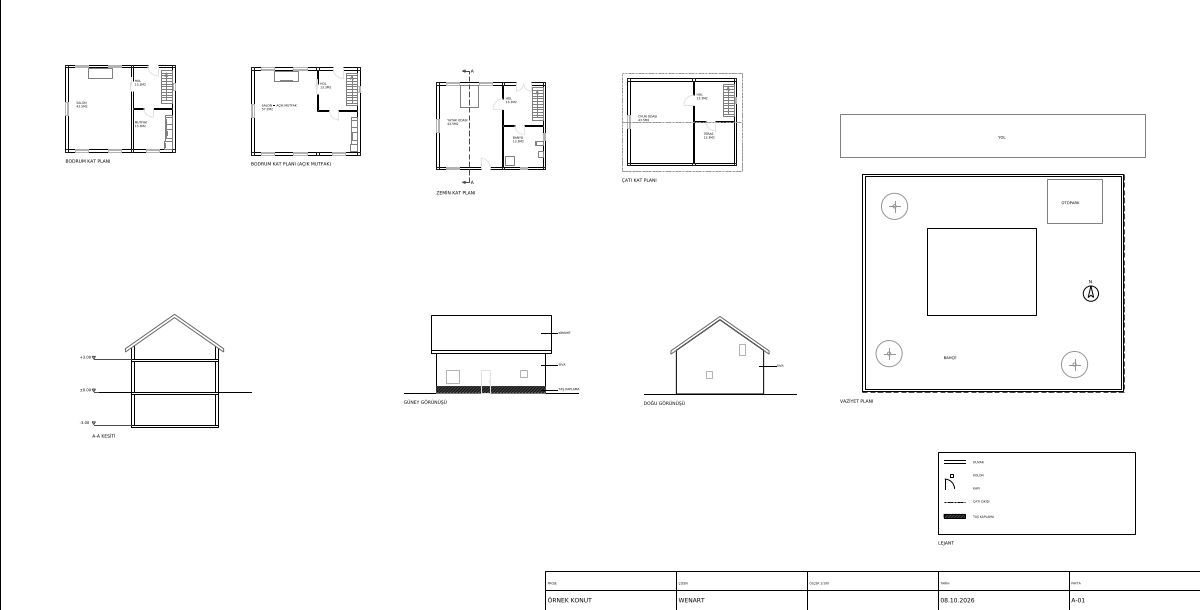
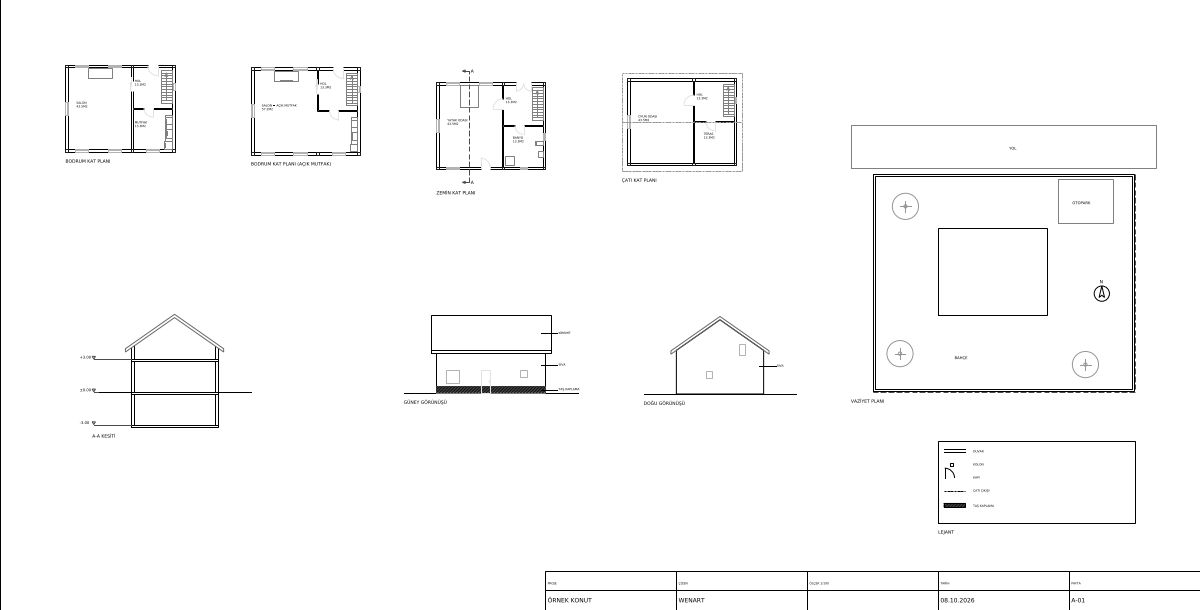
M10 track A2: synthetic-07 clusters the same for every split gap from 0.5 to 3 percent
The legend moves up and the site plan right so that every gap between two drawings is larger than 3 % of the frame's
diagonal (370 cm) and the road polygon sits within 0.5 % (62 cm) of the plot: the split gives the same ten regions and
the one stray over the whole range the spec tested (docs/milestone10.md §3.1.1). The clustering test runs at 0.5, 1, 1.5,
2 and 3 %.

Claude-Session: https://claude.ai/code/session_01MrQX1MLQ2A5Ln567i4jy7b

diff --git a/tests/test_synthetic.py b/tests/test_synthetic.py
@@ -1079,15 +1079,23 @@ def test_synthetic_07_sheet_is_one_cad_drawing_in_centimetres(sheet):
     assert len(stray) == 1 and stray[0].dxf.start.x < -50000
 
 
-def test_synthetic_07_regions_equal_an_independent_clustering(sheet):
+@pytest.fixture(scope="module")
+def sheet_boxes(sheet):
+    """Boxes of the non-text entities of the sheet, the frame left out (what the spec's split clusters)."""
+    return [_box_of(e) for e in sheet["msp"] if e.dxftype() not in ("TEXT", "MTEXT") and e.dxf.layer != "A_Cerceve"]
+
+
+@pytest.mark.parametrize("fraction", [0.005, 0.01, 0.015, 0.02, 0.03])
+def test_synthetic_07_regions_equal_an_independent_clustering(sheet, sheet_boxes, fraction):
     """The spec's split (docs/milestone10.md §3.1.1): boxes of the non-text entities, the frame left out, clustered with
-    a gap of 1.5 % of the frame's diagonal, give exactly the truth's regions (and one stray)."""
+    a gap of 1.5 % of the frame's diagonal, give exactly the truth's regions (and one stray) - and so does every gap of the
+    range the spec tested, 0.5 to 3 %."""
     document = sheet["sheets"]["documents"][0]["sheets"][0]
     frame = document["frames"][0]["box"]
-    gap = 0.015 * math.hypot(frame[2] - frame[0], frame[3] - frame[1])
-    assert gap == pytest.approx(document["gap_units"], abs=1e-3)
-    items = [(e, _box_of(e)) for e in sheet["msp"] if e.dxftype() not in ("TEXT", "MTEXT") and e.dxf.layer != "A_Cerceve"]
-    parent = list(range(len(items)))
+    gap = fraction * math.hypot(frame[2] - frame[0], frame[3] - frame[1])
+    if fraction == 0.015:
+        assert gap == pytest.approx(document["gap_units"], abs=1e-3)
+    parent = list(range(len(sheet_boxes)))
 
     def find(i):
         while parent[i] != i:
@@ -1095,12 +1103,12 @@ def test_synthetic_07_regions_equal_an_independent_clustering(sheet):
             i = parent[i]
         return i
 
-    for i in range(len(items)):
-        for j in range(i + 1, len(items)):
-            if _box_distance(items[i][1], items[j][1]) <= gap:
+    for i in range(len(sheet_boxes)):
+        for j in range(i + 1, len(sheet_boxes)):
+            if _box_distance(sheet_boxes[i], sheet_boxes[j]) <= gap:
                 parent[find(i)] = find(j)
     clusters: dict = {}
-    for i, (_, box) in enumerate(items):
+    for i, box in enumerate(sheet_boxes):
         clusters.setdefault(find(i), []).append(box)
     found = sorted(([min(b[0] for b in m), min(b[1] for b in m), max(b[2] for b in m), max(b[3] for b in m), len(m)]
                     for m in clusters.values()), key=lambda c: (-c[3], c[0]))

diff --git a/wenart/synthetic/sheet.py b/wenart/synthetic/sheet.py
@@ -696,10 +696,10 @@ PLOT = ((-6.0, -7.0), (18.0, -7.0), (18.0, 13.0), (-6.0, 13.0))
 PLOT_WALL_T = 0.20
 PLOT_WALL_INSET = 0.05                                 # outer face of the plot wall, inside the boundary line
 PARKING = ((11.0, 8.5), (16.0, 8.5), (16.0, 12.5), (11.0, 12.5))
-ROAD = ((-8.0, 14.5), (20.0, 14.5), (20.0, 18.5), (-8.0, 18.5))
+ROAD = ((-8.0, 13.5), (20.0, 13.5), (20.0, 17.5), (-8.0, 17.5))
 TREES = ((-3.5, -3.5), (13.5, -4.5), (-3.0, 10.0))
 NORTH_AT = (15.0, 2.0)
-SITE_LABELS = (("OTOPARK", (12.3, 10.2)), ("BAHÇE", (1.5, -4.0)), ("YOL", (6.5, 16.2)))
+SITE_LABELS = (("OTOPARK", (12.3, 10.2)), ("BAHÇE", (1.5, -4.0)), ("YOL", (6.5, 15.2)))
 
 
 def plot_wall_centre() -> list[tuple[tuple[float, float], tuple[float, float]]]:
@@ -765,8 +765,8 @@ def title_block_prims() -> list[Prim]:
 
 # Position (cm) of each local origin: plans at their own offsets (row 1), section / elevations (row 2), site plan right.
 ORIGINS = {"basement": (600.0, 4200.0), "basement_alt": (2300.0, 4175.0), "ground": (4000.0, 4040.0), "attic": (5750.0, 4075.0),
-           "section": (1200.0, 2000.0), "south": (4000.0, 1990.0), "east": (6200.0, 1980.0), "site": (8500.0, 2700.0),
-           "legend": (8600.0, 700.0), "titleblock": (0.0, 0.0)}
+           "section": (1200.0, 2000.0), "south": (4000.0, 1990.0), "east": (6200.0, 1980.0), "site": (8600.0, 2700.0),
+           "legend": (8600.0, 800.0), "titleblock": (0.0, 0.0)}
 TITLE_DROP = 0.7                                          # metres between a drawing's box and its title's top
 BRIEF_07 = {"style": "Modern minimal, light oak floor, white walls, warm daylight",
             "exterior": {"facade": "white render", "roof": "clay tiles", "window_frame": "anthracite aluminium"}}

diff --git a/wenart/synthetic/projects.py b/wenart/synthetic/projects.py
@@ -828,7 +828,7 @@ def project_06() -> CadProject:
 
 # sha256 of projects/synthetic-07/source/sheet.dwg as LibreDWG 0.14 (d9468ae) dxf2dwg --as r2000 writes it from
 # sheet.dxf (same rule as DWG_SHA256_06: update only together with a reviewed change of the sheet).
[2 lines of base64/hex data omitted]
 
 
 def all_projects() -> list:

diff --git a/docs/synthetic.md b/docs/synthetic.md
@@ -148,11 +148,11 @@ join the nearest region by their insertion point, the frame is not a region.
 | r2 | alternative_floor_plan | `BODRUM KAT PLANI (AÇIK MUTFAK)` | L-1b, `Açık mutfak` (`acik-mutfak`, gloss open kitchen) | 2300, 4175, 3300, 4975 | 17.0, −1.35 | read |
 | r3 | floor_plan | `ZEMİN KAT PLANI` (the reference) | L0 | 4000, 3910, 5000, 4950 | 0, 0 | read |
 | r4 | floor_plan | `ÇATI KAT PLANI` | L1 attic | 5700, 4025, 6800, 4925 | −17.5, −0.35 | read |
-| r5 | site_plan | `VAZİYET PLANI` | – | 7700, 2000, 10500, 4550 | −45.0, 13.4 (through its building outline) | exterior |
+| r5 | site_plan | `VAZİYET PLANI` | – | 7800, 2000, 10600, 4450 | −46.0, 13.4 (through its building outline) | exterior |
 | r6 | section | `A-A KESİTİ` | – | 845, 1680, 2300, 2710.602 | – | heights |
 | r7 | elevation | `GÜNEY GÖRÜNÜŞÜ` | – | 3700, 1990, 5300, 2700.602 | – | exterior |
 | r8 | elevation | `DOĞU GÖRÜNÜŞÜ` | – | 5900, 1980, 7300, 2690.602 | – | exterior |
-| r9 | legend | `LEJANT` | – | 8600, 700, 10400, 1450 | – | ignored |
+| r9 | legend | `LEJANT` | – | 8600, 800, 10400, 1550 | – | ignored |
 | r10 | title_block | – (cells `PROJE`, `ÇİZEN`, `ÖLÇEK 1/100`, `TARİH`, `PAFTA`) | – | 5000, 0, 11000, 360 | – | ignored |
 
 Plan titles are MTEXT, the others TEXT (height 30 cm). Each plan sits at its own offset (pure shifts, no rotation), so
@@ -241,7 +241,7 @@ labels `43.5M2` match the polygons, level marks match the slab spacing, door arc
 
 | Stage | What the reader must find |
 |---|---|
-| split | 10 regions and 1 stray; boxes within 0.01 cm of the table (an independent clustering with gap 185 cm reproduces them: `tests/test_synthetic.py`); the frame is not a region |
+| split | 10 regions and 1 stray; boxes within 0.01 cm of the table (an independent clustering reproduces them for every gap from 0.5 % to 3 % of the frame's diagonal, 62 to 370 cm: `tests/test_synthetic.py`); the frame is not a region |
 | classify | classes by title; `r2` alternative of `r1` (same level, extra bracket); the title block by geometry; no AI needed |
 | units | `$INSUNITS` 5 agrees with every check: `metres_per_unit` 0.01, no `unit_mismatch` |
 | register | shifts as in the table (± 1 cm), residual 0, stairs aligned (the `MERDIVEN` sits at the same place on all four plans) |
